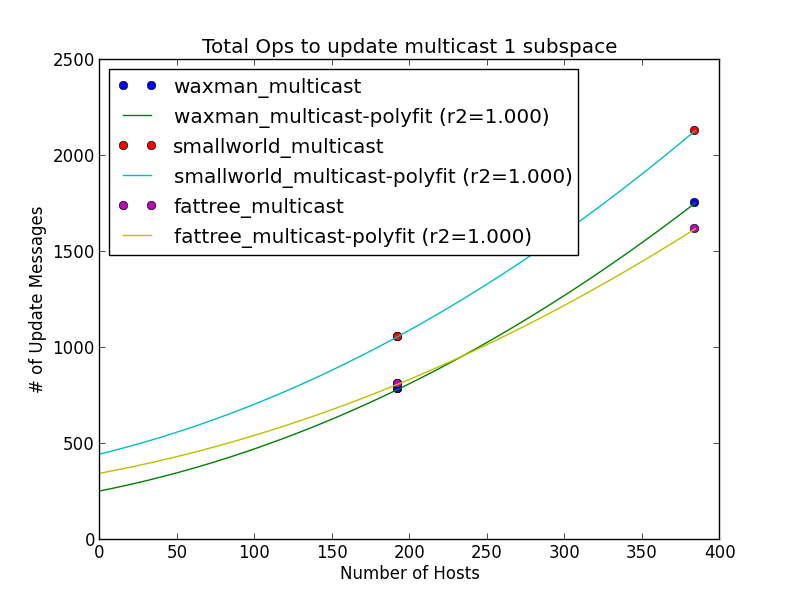
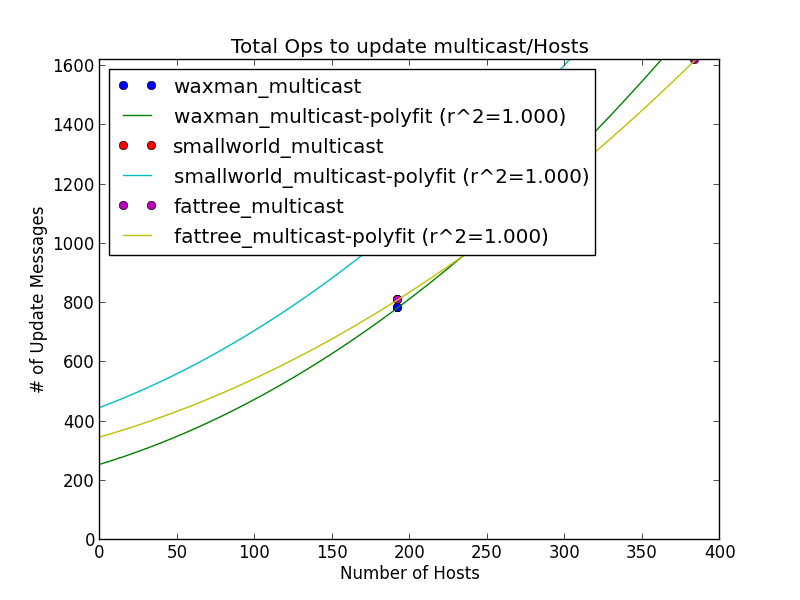
Updated plot script.

diff --git a/updates/plot-results.py b/updates/plot-results.py
@@ -144,7 +144,6 @@ for f in glob.glob("%s/*/*.txt" % args.dir) + \
   print "Parsing %s" % f
   parse_file(f, results)
            
-#    print "results = ", resultss
   nfiles += 1
 
 if nfiles == 0:
@@ -191,7 +190,7 @@ if args.type == 'ops':
         plt.plot(X_plot, fit_fn(X_plot), '-', label='%s-polyfit (r^2=%.3f)' % \
            (topo, r_squared(fit_fn, X, Y)))
         application = graph_type.split('_')[0]
-        fname = flavor_name(graph_type.split('_')[-1])
+        fname = flavor_name(int(graph_type.split('_')[1]))
         plt.title("Total Ops to update %s/%s" %
                   (application, fname))
 
@@ -199,6 +198,7 @@ if args.type == 'ops':
         plt.legend(loc='upper left')
         plt.ylabel("# of Update Messages")
         plt.xlabel("Number of Hosts")
+        plt.ylim(0, max(Y))
 
         if args.out:
             print "Saving to %s" % args.out
@@ -250,6 +250,8 @@ if args.type == 'time':
       plt.legend(loc='upper left')
       plt.ylabel("Time (sec)")
       plt.xlabel("Number of Hosts")
+      plt.ylim(0, max(Y))
+
 
       if args.out:
         fname = os.path.join(args.out, "time_%s" % graph_type)
@@ -267,9 +269,7 @@ if args.type == 'ops_per_time':
     has_plot = False
     for topo, data in topologies.items():
       
-      print "data = ", data
       data = [d for d in data if d[3]]
-      print "data parsed = ", data
       
       A = array([(d[0], d[1]/d[3]) for d in data],
                 dtype=[('x',int), ('y',float)])
@@ -278,7 +278,7 @@ if args.type == 'ops_per_time':
       X = A['x']
       Y = A['y']
       
-      if len(X) < 3:
+      if len(X) < 2:
         print "Skipping %s %s, #=%d" % (graph_type, topo, len(X))
         continue
       
@@ -288,7 +288,6 @@ if args.type == 'ops_per_time':
     
       
       fit = polyfit(X,Y,1)
-      print "fit = ", fit
       fit_fn = poly1d(fit) # fit_fn is now a function which takes in x and returns an estimate for y
       
       plt.plot(X, Y, 'o', label=topo)
@@ -303,6 +302,8 @@ if args.type == 'ops_per_time':
       plt.legend(loc='lower right')
       plt.ylabel("Ops per sec")
       plt.xlabel("Number of Hosts")
+      plt.ylim(0, max(Y))
+      
       
       if args.out:
         fname = os.path.join(args.out, "ops_per_time_%s" % graph_type)
@@ -389,13 +390,6 @@ if args.type == 'table':
 
     f.write("</table>\n")
     f.write("<p>\n")
-
-#          A.sort(order='hosts')
-
-#          print "graph_type = %s, topo = %s, flavor = %d, opts = %s, vals = %s" % (graph_type, topo, int(flavor), opts, vals)
-#    #      print "graph_type.split('-') = ", graph_type.split('_')
-#
-
 
 
 
